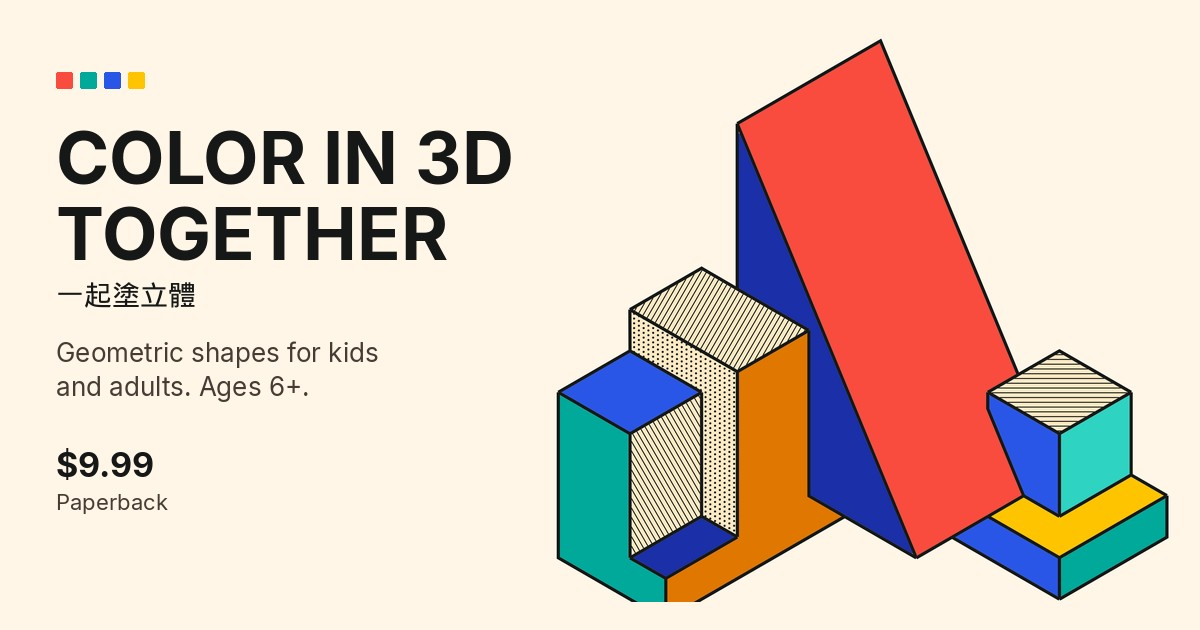
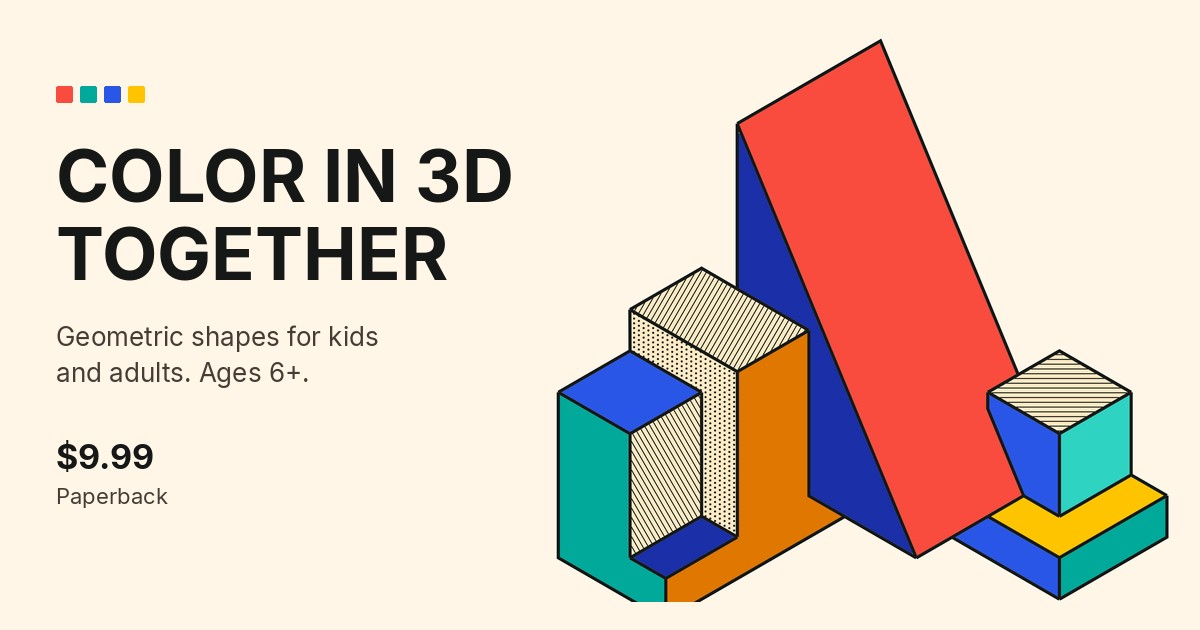
Remove the Chinese title from the product page.
The published cover and listing use the English title only.

Changed region(s): [[0.0308, 0.2111, 0.4317, 0.6333], [0.0308, 0.6937, 0.1542, 0.8143], [0.0308, 0.0905, 0.1233, 0.181]]

diff --git a/index.html b/index.html
@@ -29,7 +29,6 @@
     "@context": "https://schema.org",
     "@type": "Book",
     "name": "Color in 3D Together",
-    "alternateName": "一起塗立體",
     "author": { "@type": "Person", "name": "Cold Sun" },
     "bookFormat": "https://schema.org/Paperback",
     "inLanguage": "en",
@@ -66,7 +65,6 @@
       <div class="hero-copy">
         <p class="eyebrow">Paperback</p>
         <h1>Color in 3D<br>Together</h1>
-        <p class="zh" lang="zh-Hant">一起塗立體</p>
         <p class="subtitle">Geometric Shapes Coloring Book for Kids and Adults<br>Relaxing 3D Designs, Ages 6+</p>
       </div>
       <div class="hero-buy">

diff --git a/style.css b/style.css
@@ -140,12 +140,7 @@ p { margin: 0; }
 .textlink { color: inherit; font-weight: 650; }
 
 .hero { padding: 1.4rem 0 0.4rem; }
-.zh {
-  margin: 0.7rem 0 0;
-  font-size: 1.25rem;
-  letter-spacing: 0.04em;
-}
-.subtitle { margin-top: 0.75rem; font-size: 1.05rem; }
+.subtitle { margin-top: 0.85rem; font-size: 1.05rem; }
 .hero-buy { margin-top: 1.15rem; }
 .price {
   display: flex;
